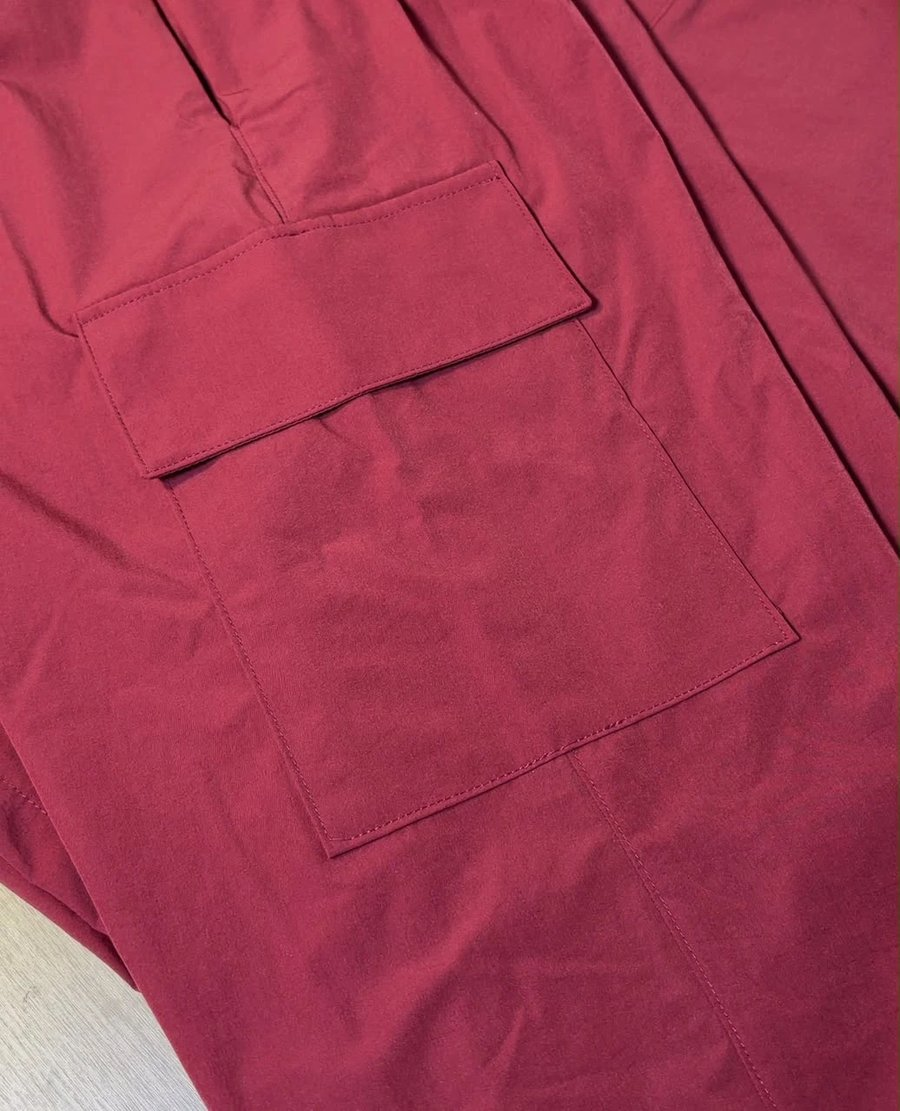
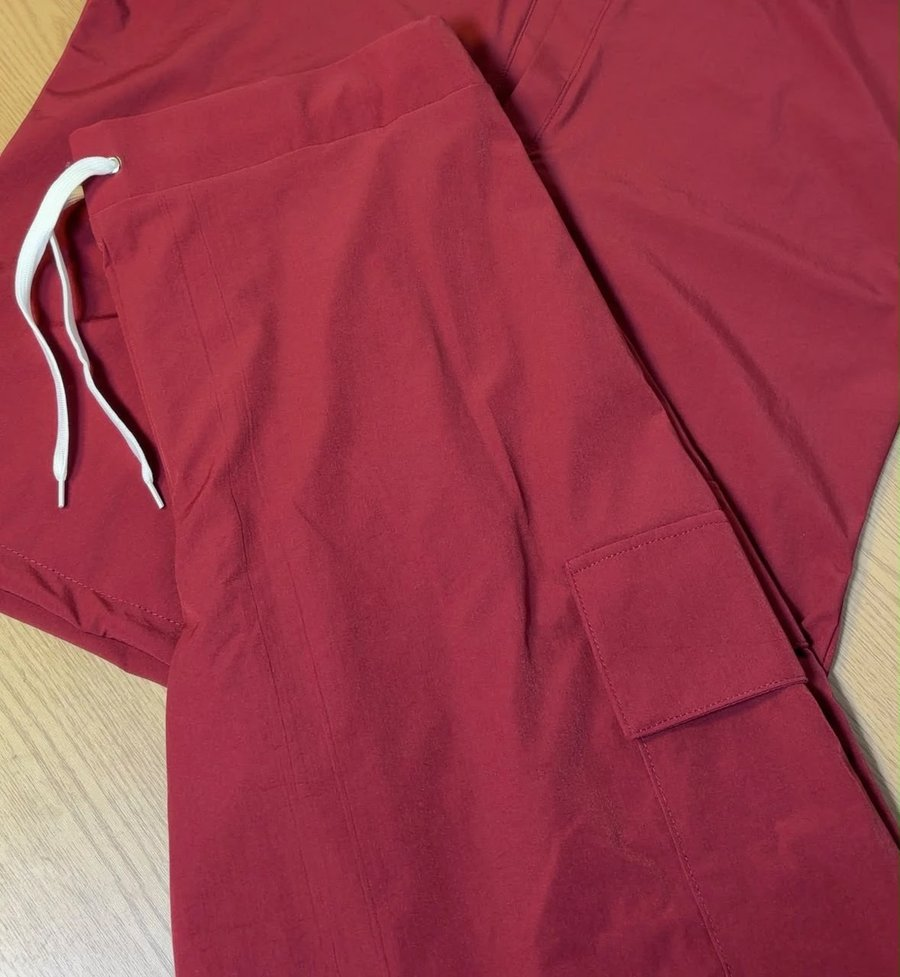
Actualiza foto de Cargo Multibolsillos y agrega opción de pretina
Especifica en negrita que se puede elegir entre pretina lisa y
arruchada.

Claude-Session: https://claude.ai/code/session_01VQ3Gui7LvZGFhQT4VH7VqY

diff --git a/js/data.js b/js/data.js
@@ -70,7 +70,7 @@ const CATALOG = {
     {
       id: "pant-cargo",
       name: "Cargo Multibolsillos",
-      description: "Bolsillo cargo tipo parche, uno de cada lado, bota ancha, muy funcional.",
+      description: "Bolsillo cargo tipo parche, uno de cada lado, bota ancha. <strong>Puedes elegir entre pretina lisa y arruchada.</strong>",
       price: 19,
       image: "img/productos/pantalon-cargo-multibolsillos.jpg",
     },
